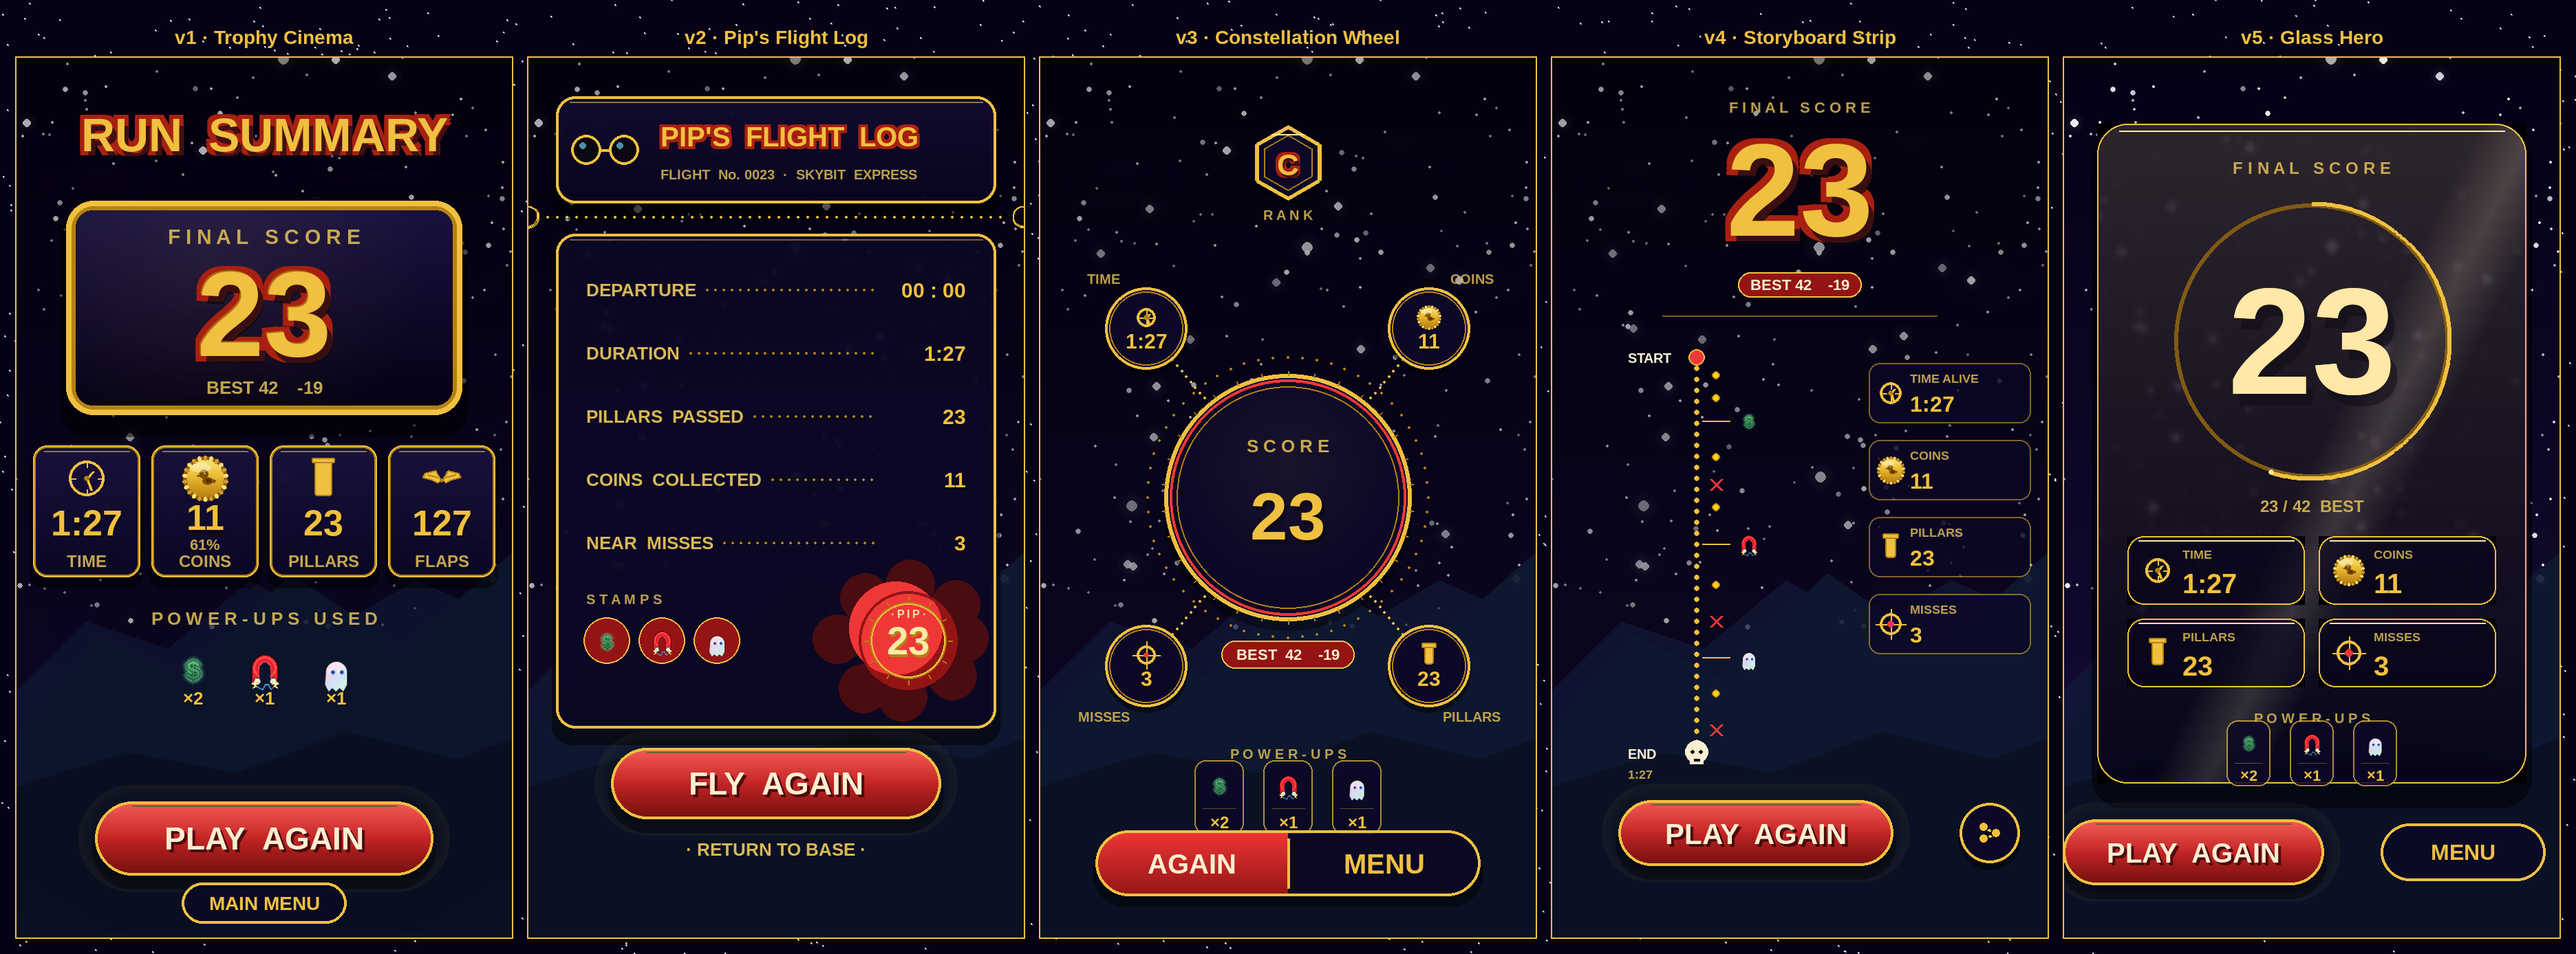
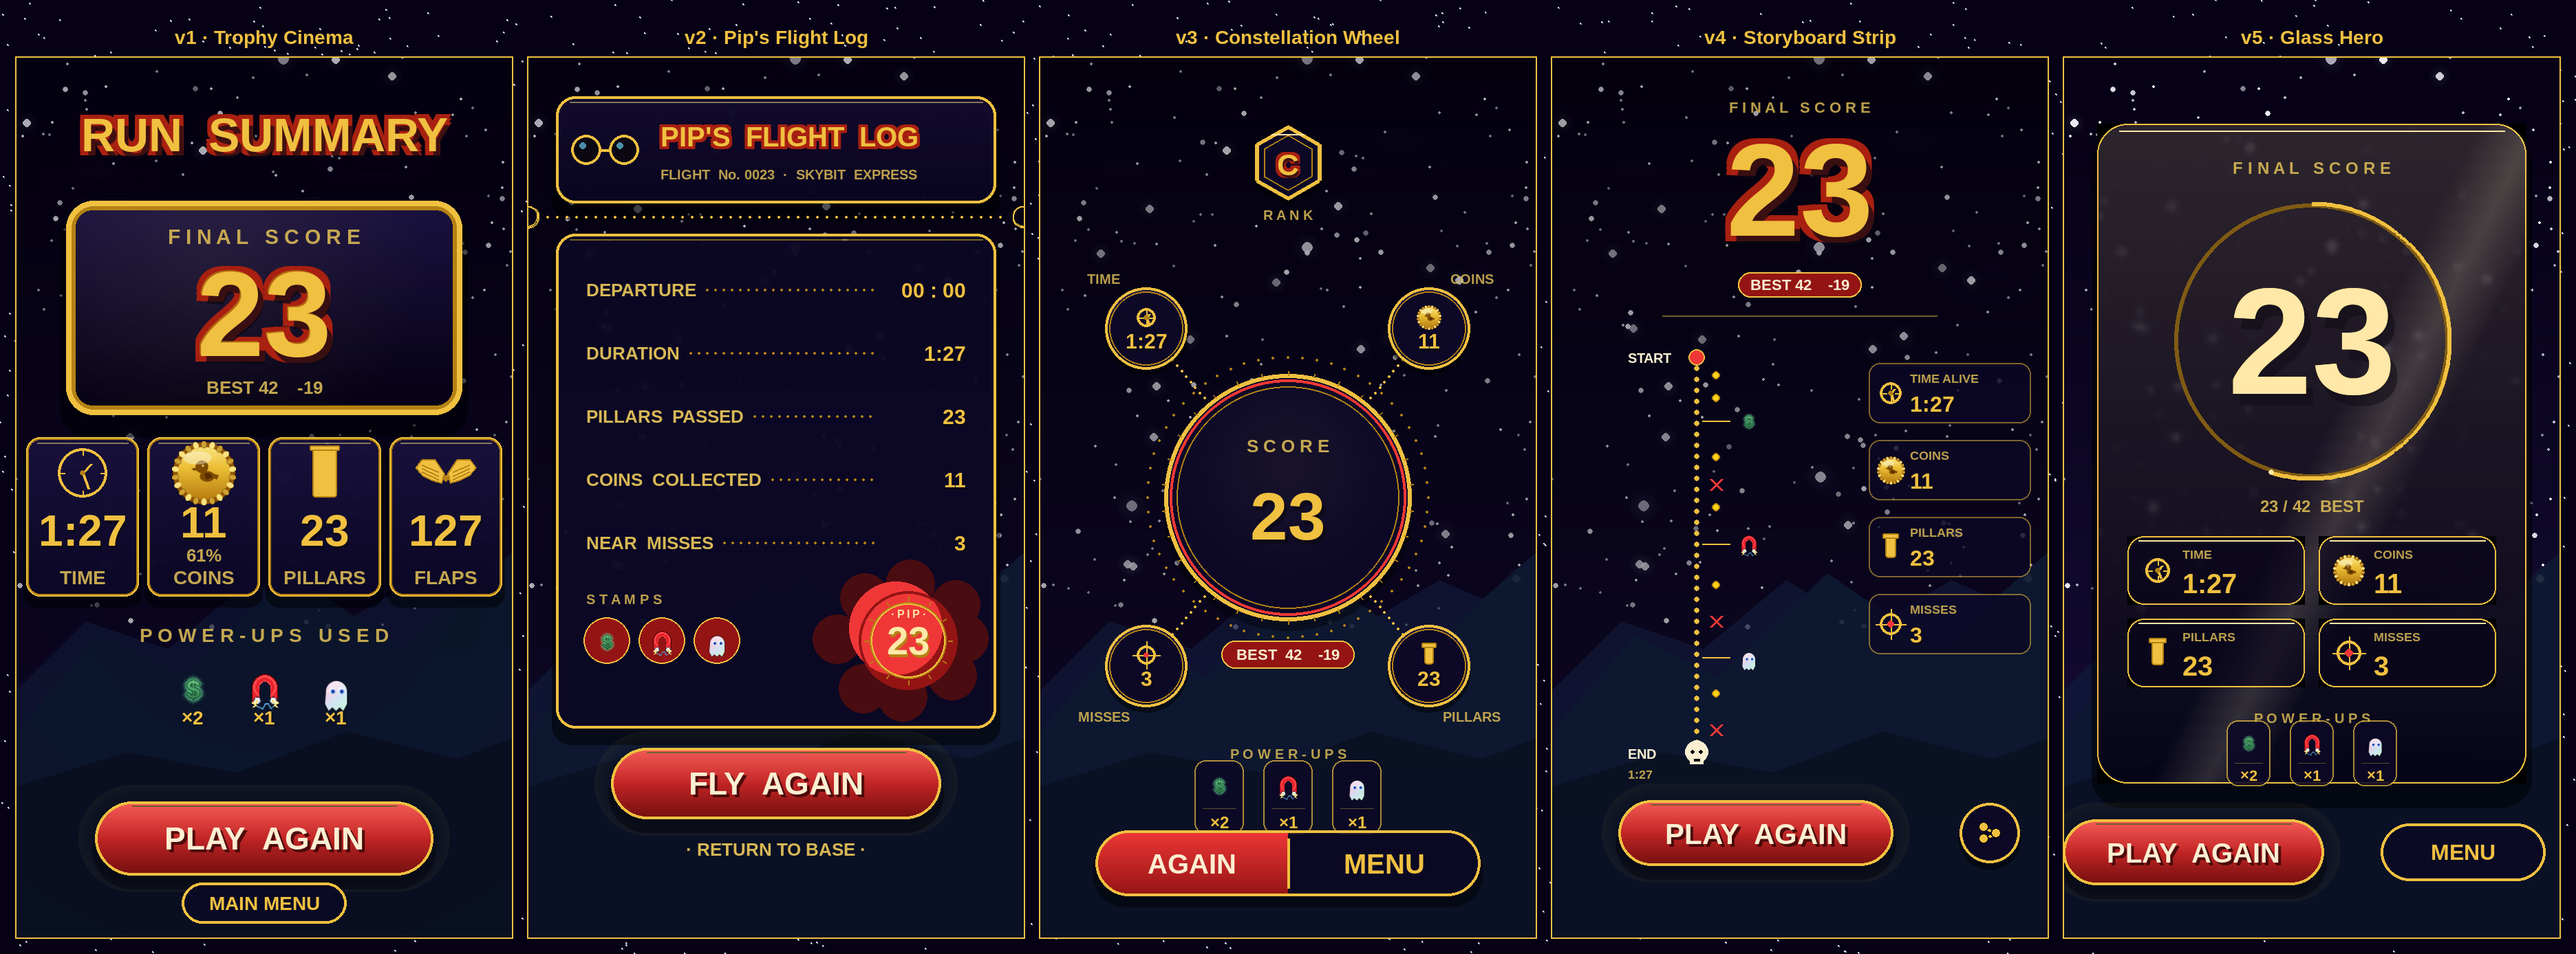
v1 typography: another step bigger — properly using the screen real estate
Previous round bumped sizes but the change still read as subtle. This
round is decisive:

  - tile icon: 13 → 18 (the wings glyph now reads as bird wings at a
    glance)
  - tile value: 26 → 32
  - tile label: 12 → 14
  - tile dimensions: 78×96 → 82×116
  - COINS subline: 11 → 13
  - "POWER-UPS USED" caption: 13 → 14
  - "×N" labels: 13 → 14

Also redrew the wings polygon with a broader shoulder, sharper tip, and
three subtle feather-ridge lines so the silhouette stays legible at
both 13- and 18-px sizes.

https://claude.ai/code/session_01BEgi1kRwzhWvvC8NuZNc1t

Changed region(s): [[0.0, 0.4337, 0.2188, 0.7435]]

diff --git a/tools/gen_run_summary_redesigns.py b/tools/gen_run_summary_redesigns.py
@@ -476,29 +476,34 @@ def stat_icon(surf, kind, cx, cy, size):
                           w + 4 * SCALE, 4 * SCALE),
                          width=1 * SCALE, border_radius=int(1 * SCALE))
     elif kind == "flap":
-        # A pair of outstretched bird wings — each wing is a leaf-shaped
-        # silhouette with a curved leading edge and tapered tip. The
-        # central "body" joins them as a thin pinch.
+        # Two outstretched bird wings, drawn as a bold silhouette pair
+        # for unmistakable readability at small sizes. Each wing is a
+        # broad teardrop that tapers to a pointed tip; three feather
+        # ridges in deep-gold give a sense of plumage without busy lines.
         for sign in (-1, 1):
             wing_pts = [
-                (cx + sign * s * 0.04, cy + s * 0.1),
-                (cx + sign * s * 0.35, cy - s * 0.45),
-                (cx + sign * s * 0.95, cy - s * 0.30),
-                (cx + sign * s * 1.05, cy - s * 0.05),
-                (cx + sign * s * 0.60, cy + s * 0.05),
-                (cx + sign * s * 0.20, cy + s * 0.25),
+                (cx + sign * s * 0.08, cy + s * 0.05),    # body attach top
+                (cx + sign * s * 0.45, cy - s * 0.55),    # leading shoulder
+                (cx + sign * s * 0.95, cy - s * 0.55),    # leading peak
+                (cx + sign * s * 1.20, cy - s * 0.20),    # tip
+                (cx + sign * s * 0.95, cy + s * 0.10),    # trailing bend
+                (cx + sign * s * 0.55, cy + s * 0.30),    # trailing inner
+                (cx + sign * s * 0.18, cy + s * 0.40),    # body attach bot
             ]
             pygame.draw.polygon(surf, GOLD_BRIGHT, wing_pts)
-            pygame.draw.polygon(surf, GOLD_DEEP, wing_pts, 1 * SCALE)
-            # Inner feather ridge for texture
-            pygame.draw.line(surf, GOLD_DEEP,
-                             (cx + sign * s * 0.20, cy - s * 0.05),
-                             (cx + sign * s * 0.80, cy - s * 0.20),
-                             1 * SCALE)
-        # Small body dot in the centre
-        pygame.draw.circle(surf, GOLD_DEEP,
-                           (cx, int(cy + s * 0.12)),
-                           max(1, int(s * 0.12)))
+            pygame.draw.polygon(surf, GOLD_DEEP, wing_pts, 2)
+            # Feather ridges — three subtle curves along the wing chord
+            for k in (0.15, 0.0, -0.15):
+                pygame.draw.line(
+                    surf, GOLD_DEEP,
+                    (cx + sign * s * 0.30, cy + s * (0.12 + k)),
+                    (cx + sign * s * 0.95, cy + s * (-0.18 + k)),
+                    1 * SCALE)
+        # Small body dot connecting the wings
+        pygame.draw.ellipse(
+            surf, GOLD_DEEP,
+            (cx - int(s * 0.12), int(cy + s * 0.10),
+             max(2, int(s * 0.24)), max(2, int(s * 0.30))))
     elif kind == "bolt":
         pts = [(cx - s * 0.3, cy - s),
                (cx + s * 0.5, cy - s * 0.1),
@@ -698,35 +703,36 @@ def stat_tile_chunky(surf, rect, icon_kind, value, label, subline=None):
                      (8 * SCALE, 4 * SCALE),
                      (rect.w - 8 * SCALE, 4 * SCALE), 1 * SCALE)
     surf.blit(body, rect.topleft)
-    # Icon — larger so it reads at a glance, especially the wings glyph
-    stat_icon(surf, icon_kind, rect.centerx, rect.y + 24 * SCALE,
-              size=13)
+    # Icon — large enough to be the dominant element at the top of the
+    # tile; the wings glyph in particular needs the room to register
+    stat_icon(surf, icon_kind, rect.centerx, rect.y + 26 * SCALE,
+              size=18)
     # Value
-    vf = font(26, True).render(str(value), True, GOLD_BRIGHT)
-    vs = font(26, True).render(str(value), True, NEAR_BLACK)
+    vf = font(32, True).render(str(value), True, GOLD_BRIGHT)
+    vs = font(32, True).render(str(value), True, NEAR_BLACK)
     vs.set_alpha(170)
-    vy = rect.y + 52 * SCALE if subline else rect.y + 56 * SCALE
+    vy = rect.y + 62 * SCALE if subline else rect.y + 68 * SCALE
     vr = vf.get_rect(center=(rect.centerx, vy))
     surf.blit(vs, (vr.x + 1 * SCALE, vr.y + 2 * SCALE))
     surf.blit(vf, vr)
-    # Optional subline — small gold-muted caption directly below the
-    # value (used for COINS to surface "61%" alongside the raw count)
+    # Optional subline — gold-muted caption directly below the value
+    # (used for COINS to surface "61%" alongside the raw count)
     if subline:
-        sf = font(11, True).render(subline, True, GOLD_MUTED)
+        sf = font(13, True).render(subline, True, GOLD_MUTED)
         sf.set_alpha(230)
         surf.blit(sf, sf.get_rect(center=(rect.centerx,
-                                          rect.y + 72 * SCALE)))
+                                          rect.y + 86 * SCALE)))
     # Label — shrinks one step if the longer captions would otherwise
     # crowd the tile edges
     max_label_w = rect.w - 10 * SCALE
-    lbl_size = 12
+    lbl_size = 14
     lf = font(lbl_size, True).render(label, True, GOLD_MUTED)
-    while lf.get_width() > max_label_w and lbl_size > 9:
+    while lf.get_width() > max_label_w and lbl_size > 11:
         lbl_size -= 1
         lf = font(lbl_size, True).render(label, True, GOLD_MUTED)
     lf.set_alpha(230)
     surf.blit(lf, lf.get_rect(center=(rect.centerx,
-                                      rect.y + rect.h - 12 * SCALE)))
+                                      rect.y + rect.h - 14 * SCALE)))
 
 
 def powerup_chip(surf, cx, cy, kind, count, size=22):
@@ -872,12 +878,12 @@ def draw_v1_trophy_cinema(surf, data):
         ("pillar", data["pillars"], "PILLARS", None),
         ("flap", data["flaps"], "FLAPS", None),
     ]
-    tile_w = 78 * SCALE
-    tile_h = 96 * SCALE  # taller so the bigger icon + value + label all breathe
-    tile_gap = 8 * SCALE
+    tile_w = 82 * SCALE
+    tile_h = 116 * SCALE  # much taller for bigger icon + bigger value + bigger label
+    tile_gap = 6 * SCALE
     total_w = len(tiles) * tile_w + (len(tiles) - 1) * tile_gap
     start_x = (W - total_w) // 2
-    tile_y = 282 * SCALE
+    tile_y = 276 * SCALE
     for i, (k, v, lbl, sub) in enumerate(tiles):
         r = pygame.Rect(start_x + i * (tile_w + tile_gap), tile_y,
                         tile_w, tile_h)
@@ -889,8 +895,8 @@ def draw_v1_trophy_cinema(surf, data):
     # logical canvas (7 × 44 + 6 × 4 = 332 px → 28 px total margin).
     pu = [(k, c) for k, c in data["powerups_picked"] if c and c > 0]
     if pu:
-        cap_y = 408 * SCALE
-        cap2 = font(13, True).render("P O W E R - U P S   U S E D",
+        cap_y = 420 * SCALE
+        cap2 = font(14, True).render("P O W E R - U P S   U S E D",
                                      True, GOLD_MUTED)
         cap2.set_alpha(230)
         surf.blit(cap2, cap2.get_rect(center=(W // 2, cap_y)))
@@ -900,13 +906,13 @@ def draw_v1_trophy_cinema(surf, data):
         pitch = icon_box + gap
         total_w = len(pu) * icon_box + max(0, len(pu) - 1) * gap
         sx = (W - total_w) // 2 + icon_box // 2
-        icon_cy = cap_y + 36 * SCALE
+        icon_cy = cap_y + 38 * SCALE
         for i, (kind, count) in enumerate(pu):
             cx = sx + i * pitch
             _ingame_powerup_icon(surf, kind, cx, icon_cy,
                                  int(icon_logical * 1.7 * SCALE))
-            cf = font(13, True).render(f"×{count}", True, GOLD_BRIGHT)
-            cs = font(13, True).render(f"×{count}", True, NEAR_BLACK)
+            cf = font(14, True).render(f"×{count}", True, GOLD_BRIGHT)
+            cs = font(14, True).render(f"×{count}", True, NEAR_BLACK)
             cs.set_alpha(170)
             cr = cf.get_rect(center=(cx, icon_cy
                                      + int(icon_logical * 0.95) * SCALE))
